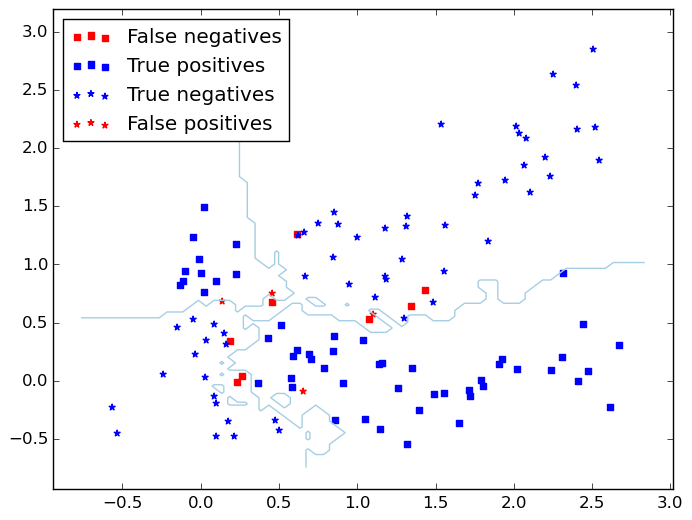
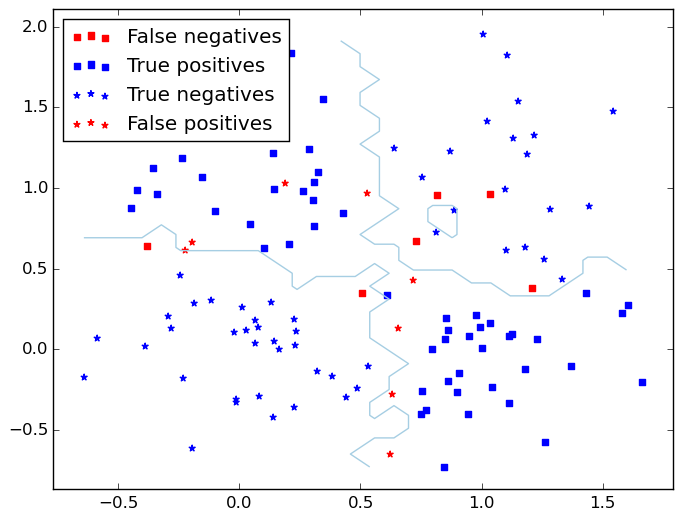
Decision boundary and plot labels for 6.2

diff --git a/E6/6.1-2.py b/E6/6.1-2.py
@@ -7,9 +7,9 @@ def createDataAsXYL(numberperset=60):
    data = [[None, None, None] for x in range(2*numberperset)]
    sd = np.sqrt(.1)
    for i in range(0, 2*numberperset, 2):
-      myrand = randint(0,2)
+      myrand = np.random.randint(0,2)
       data[i] = [np.random.normal(myrand, sd), np.random.normal(not myrand, sd),  1]
-      myrand = randint(0,2)
+      myrand = np.random.randint(0,2)
       data[i+1] = [np.random.normal(myrand, sd), np.random.normal(myrand, sd), -1]
       
    return np.array(data)
@@ -20,6 +20,14 @@ def getDataWithLabel(data, label):
 data = createDataAsXYL(60)
 #print data
 
+h = .08  # step size in the mesh
+# create a mesh to plot in
+x_min, x_max = data[:, 0].min(), data[:, 0].max()
+y_min, y_max = data[:, 1].min(), data[:, 1].max()
+xx, yy = np.meshgrid(np.arange(x_min, x_max, h),
+                     np.arange(y_min, y_max, h))
+allpoints = np.c_[xx.ravel(), yy.ravel()]
+
 # ------- 6.1 -------
 def find_k_NearestNeighborsIndices(coordinates, k):
    dist = np.linalg.norm(np.tile(coordinates, (data.shape[0], 1)) - data[:,:-1], axis=1)
@@ -28,14 +36,6 @@ def find_k_NearestNeighborsIndices(coordinates, k):
 def findNearestNeighborIndiciesToScipy(data, pointindex, numberofneighbors):
    t = tree(data[:,:-1])
    return t.query(data[:,:-1][pointindex], numberofneighbors+1)[1][1:]
-
-h = .05  # step size in the mesh
-# create a mesh to plot in
-x_min, x_max = data[:, 0].min() - 0.2, data[:, 0].max() + 0.2
-y_min, y_max = data[:, 1].min() - 0.2, data[:, 1].max() + 0.2
-xx, yy = np.meshgrid(np.arange(x_min, x_max, h),
-                     np.arange(y_min, y_max, h))
-allpoints = np.c_[xx.ravel(), yy.ravel()]
 
 for k in [1, 3, 5]:
    classifiedasones = [None] * len(data)
@@ -86,7 +86,16 @@ def findClassificationFromDataAndCenterindex(data, centerpointindex, sigmasquare
       cumulativevote += weight * data[otherpointindex][2]
    
    return cumulativevote
-   
+
+def findClassificationForAllPoints(data, coordinates, sigmasquared):
+   cumulativevote = 0
+   for dataindex in range(len(data)):
+      if np.linalg.norm(coordinates-data[dataindex,:-1])==0:
+         continue
+      weight = computeWeightFromDistance(np.linalg.norm(coordinates-data[dataindex,:-1]), sigmasquared)
+      cumulativevote += weight * data[dataindex][2]
+   return cumulativevote
+
 def computeDistance(ax, ay, bx, by):
    return np.sqrt((ax-bx)**2 + (ay-by)**2)
    
@@ -106,13 +115,18 @@ for sigmasquared in [.5, .1, .01]:
    #print len(data[np.asarray(classifiedasones)]), len(data[np.asarray(classifiedasones)==False])
    ones = data[np.asarray(classifiedasones)]
    zeros = data[np.asarray(classifiedasones)==False]
+   contours = np.zeros(allpoints.shape[0])
+   for i in range(len(allpoints)):
+      contours[i] = np.sign(findClassificationForAllPoints(data, allpoints[i], sigmasquared))
    
    
    #print "ones:\n"+str(ones)
    #print "zeros:\n"+str(zeros)
-
-   mplt.scatter(getDataWithLabel(zeros,  1).T[0], getDataWithLabel(zeros,  1).T[1], color='red',  marker='s')        #generated as  1, marked as -1
-   mplt.scatter(getDataWithLabel(ones,   1).T[0], getDataWithLabel(ones,   1).T[1], color='blue', marker='s')        #generated as  1, marked as  1
-   mplt.scatter(getDataWithLabel(zeros, -1).T[0], getDataWithLabel(zeros, -1).T[1], color='blue', marker=r'$\star$') #generated as -1, marked as -1
-   mplt.scatter(getDataWithLabel(ones,  -1).T[0], getDataWithLabel(ones,  -1).T[1], color='red',  marker=r'$\star$') #generated as -1, marked as  1
+   mplt.figure()
+   mplt.scatter(getDataWithLabel(zeros,  1).T[0], getDataWithLabel(zeros,  1).T[1], color='red',  marker='s', label='False negatives')        #generated as  1, marked as -1
+   mplt.scatter(getDataWithLabel(ones,   1).T[0], getDataWithLabel(ones,   1).T[1], color='blue', marker='s', label='True positives')        #generated as  1, marked as  1
+   mplt.scatter(getDataWithLabel(zeros, -1).T[0], getDataWithLabel(zeros, -1).T[1], color='blue', marker=r'$\star$', label='True negatives') #generated as -1, marked as -1
+   mplt.scatter(getDataWithLabel(ones,  -1).T[0], getDataWithLabel(ones,  -1).T[1], color='red',  marker=r'$\star$', label='False positives') #generated as -1, marked as  1
+   mplt.contour(xx, yy, contours.reshape(xx.shape), cmap=mplt.cm.Paired, levels=[0.5]);
+   mplt.legend(loc=2)
    mplt.savefig('6.2b_s2='+str(sigmasquared)+'.png', bbox_inches='tight')
